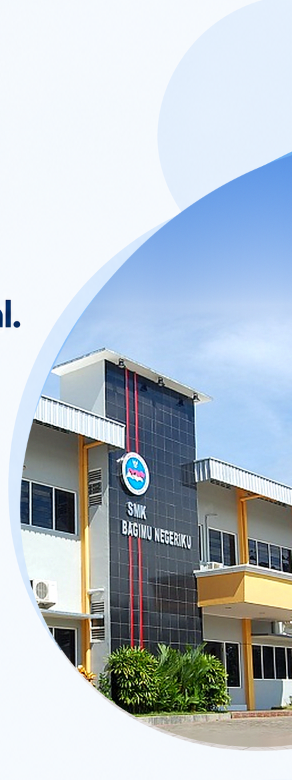
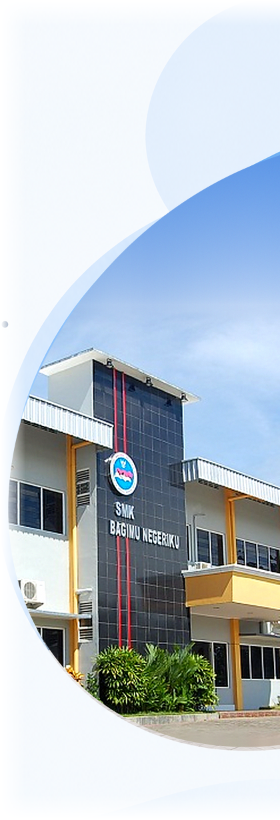
fix(ui): rapikan layout panel login, hilangkan overlap teks dan buat transisi gambar mulus

diff --git a/resources/views/auth/admin-login.blade.php b/resources/views/auth/admin-login.blade.php
@@ -24,7 +24,7 @@
         </svg>
 
         {{-- Visual Arch Gedung Sekolah (Sesuai Mockup) --}}
-        <div class="pointer-events-none absolute -right-2 top-1/2 -translate-y-1/2 h-[75%] max-h-[640px] w-auto select-none z-0 hidden lg:block opacity-95">
+        <div class="pointer-events-none absolute right-0 top-1/2 -translate-y-1/2 h-[70%] xl:h-[78%] max-h-[620px] w-auto select-none z-0 hidden lg:block">
             <img src="{{ asset('login-illustration.png') }}" alt="SMK Bagimu Negeriku" class="h-full w-auto object-contain object-right" />
         </div>
 
@@ -41,21 +41,21 @@
         </div>
 
         {{-- Konten Utama (Persis Sesuai Mockup) --}}
-        <div class="relative z-10 space-y-6 max-w-lg my-auto py-8">
+        <div class="relative z-10 space-y-6 max-w-[310px] xl:max-w-[360px] my-auto py-6">
             <span class="inline-flex items-center gap-2 rounded-full px-3.5 py-1 text-xs font-semibold bg-blue-50 text-blue-600 border border-blue-100 shadow-xs">
                 <x-icon name="shield" class="h-3.5 w-3.5 text-blue-600" />
                 Portal Khusus Staf & Pembina
             </span>
-            <h1 class="text-3xl xl:text-4xl font-black leading-[1.18] tracking-tight text-slate-900">
+            <h1 class="text-2xl sm:text-3xl xl:text-4xl font-black leading-[1.18] tracking-tight text-slate-900">
                 Pengelolaan<br>
                 <span class="text-blue-600">Ekstrakurikuler</span><br>
                 Terpadu & Profesional.
             </h1>
-            <p class="text-sm leading-relaxed text-slate-500 max-w-md">
+            <p class="text-xs sm:text-sm leading-relaxed text-slate-500 max-w-[300px] xl:max-w-[340px]">
                 Akses khusus guru, pembina eskul, dan tim tata usaha untuk verifikasi pendaftaran siswa, rekap presensi QR, penilaian rapor ekstrakurikuler, dan penerbitan sertifikat digital.
             </p>
 
-            <div class="space-y-4 pt-1 max-w-md">
+            <div class="space-y-3.5 pt-1 max-w-[300px] xl:max-w-[340px]">
                 <div class="flex items-center gap-3.5">
                     <div class="flex h-11 w-11 shrink-0 items-center justify-center rounded-2xl bg-blue-50 border border-blue-100 text-blue-600 shadow-xs">
                         <x-icon name="clock" class="h-5 w-5" />

diff --git a/resources/views/auth/siswa-login.blade.php b/resources/views/auth/siswa-login.blade.php
@@ -24,7 +24,7 @@
         </svg>
 
         {{-- Visual Arch Gedung Sekolah (Sesuai Mockup) --}}
-        <div class="pointer-events-none absolute -right-2 top-1/2 -translate-y-1/2 h-[75%] max-h-[640px] w-auto select-none z-0 hidden lg:block opacity-95">
+        <div class="pointer-events-none absolute right-0 top-1/2 -translate-y-1/2 h-[70%] xl:h-[78%] max-h-[620px] w-auto select-none z-0 hidden lg:block">
             <img src="{{ asset('login-illustration.png') }}" alt="SMK Bagimu Negeriku" class="h-full w-auto object-contain object-right" />
         </div>
 
@@ -41,21 +41,21 @@
         </div>
 
         {{-- Konten Utama --}}
-        <div class="relative z-10 space-y-6 max-w-lg my-auto py-8">
+        <div class="relative z-10 space-y-6 max-w-[310px] xl:max-w-[360px] my-auto py-6">
             <span class="inline-flex items-center gap-2 rounded-full px-3.5 py-1 text-xs font-semibold bg-blue-50 text-blue-600 border border-blue-100 shadow-xs">
                 <x-icon name="user" class="h-3.5 w-3.5 text-blue-600" />
                 Portal Ekstrakurikuler Siswa
             </span>
-            <h1 class="text-3xl xl:text-4xl font-black leading-[1.18] tracking-tight text-slate-900">
+            <h1 class="text-2xl sm:text-3xl xl:text-4xl font-black leading-[1.18] tracking-tight text-slate-900">
                 Pendaftaran & Presensi<br>
                 <span class="text-blue-600">Ekstrakurikuler</span><br>
                 Digital & Praktis.
             </h1>
-            <p class="text-sm leading-relaxed text-slate-500 max-w-md">
+            <p class="text-xs sm:text-sm leading-relaxed text-slate-500 max-w-[300px] xl:max-w-[340px]">
                 Pilih eskul favoritmu, dapatkan E-Card digital dengan QR Code unik, dan pantau rekap kehadiran serta nilai akhir langsung dari ponselmu.
             </p>
 
-            <div class="space-y-4 pt-1 max-w-md">
+            <div class="space-y-3.5 pt-1 max-w-[300px] xl:max-w-[340px]">
                 <div class="flex items-center gap-3.5">
                     <div class="flex h-11 w-11 shrink-0 items-center justify-center rounded-2xl bg-blue-50 border border-blue-100 text-blue-600 shadow-xs">
                         <x-icon name="clock" class="h-5 w-5" />
